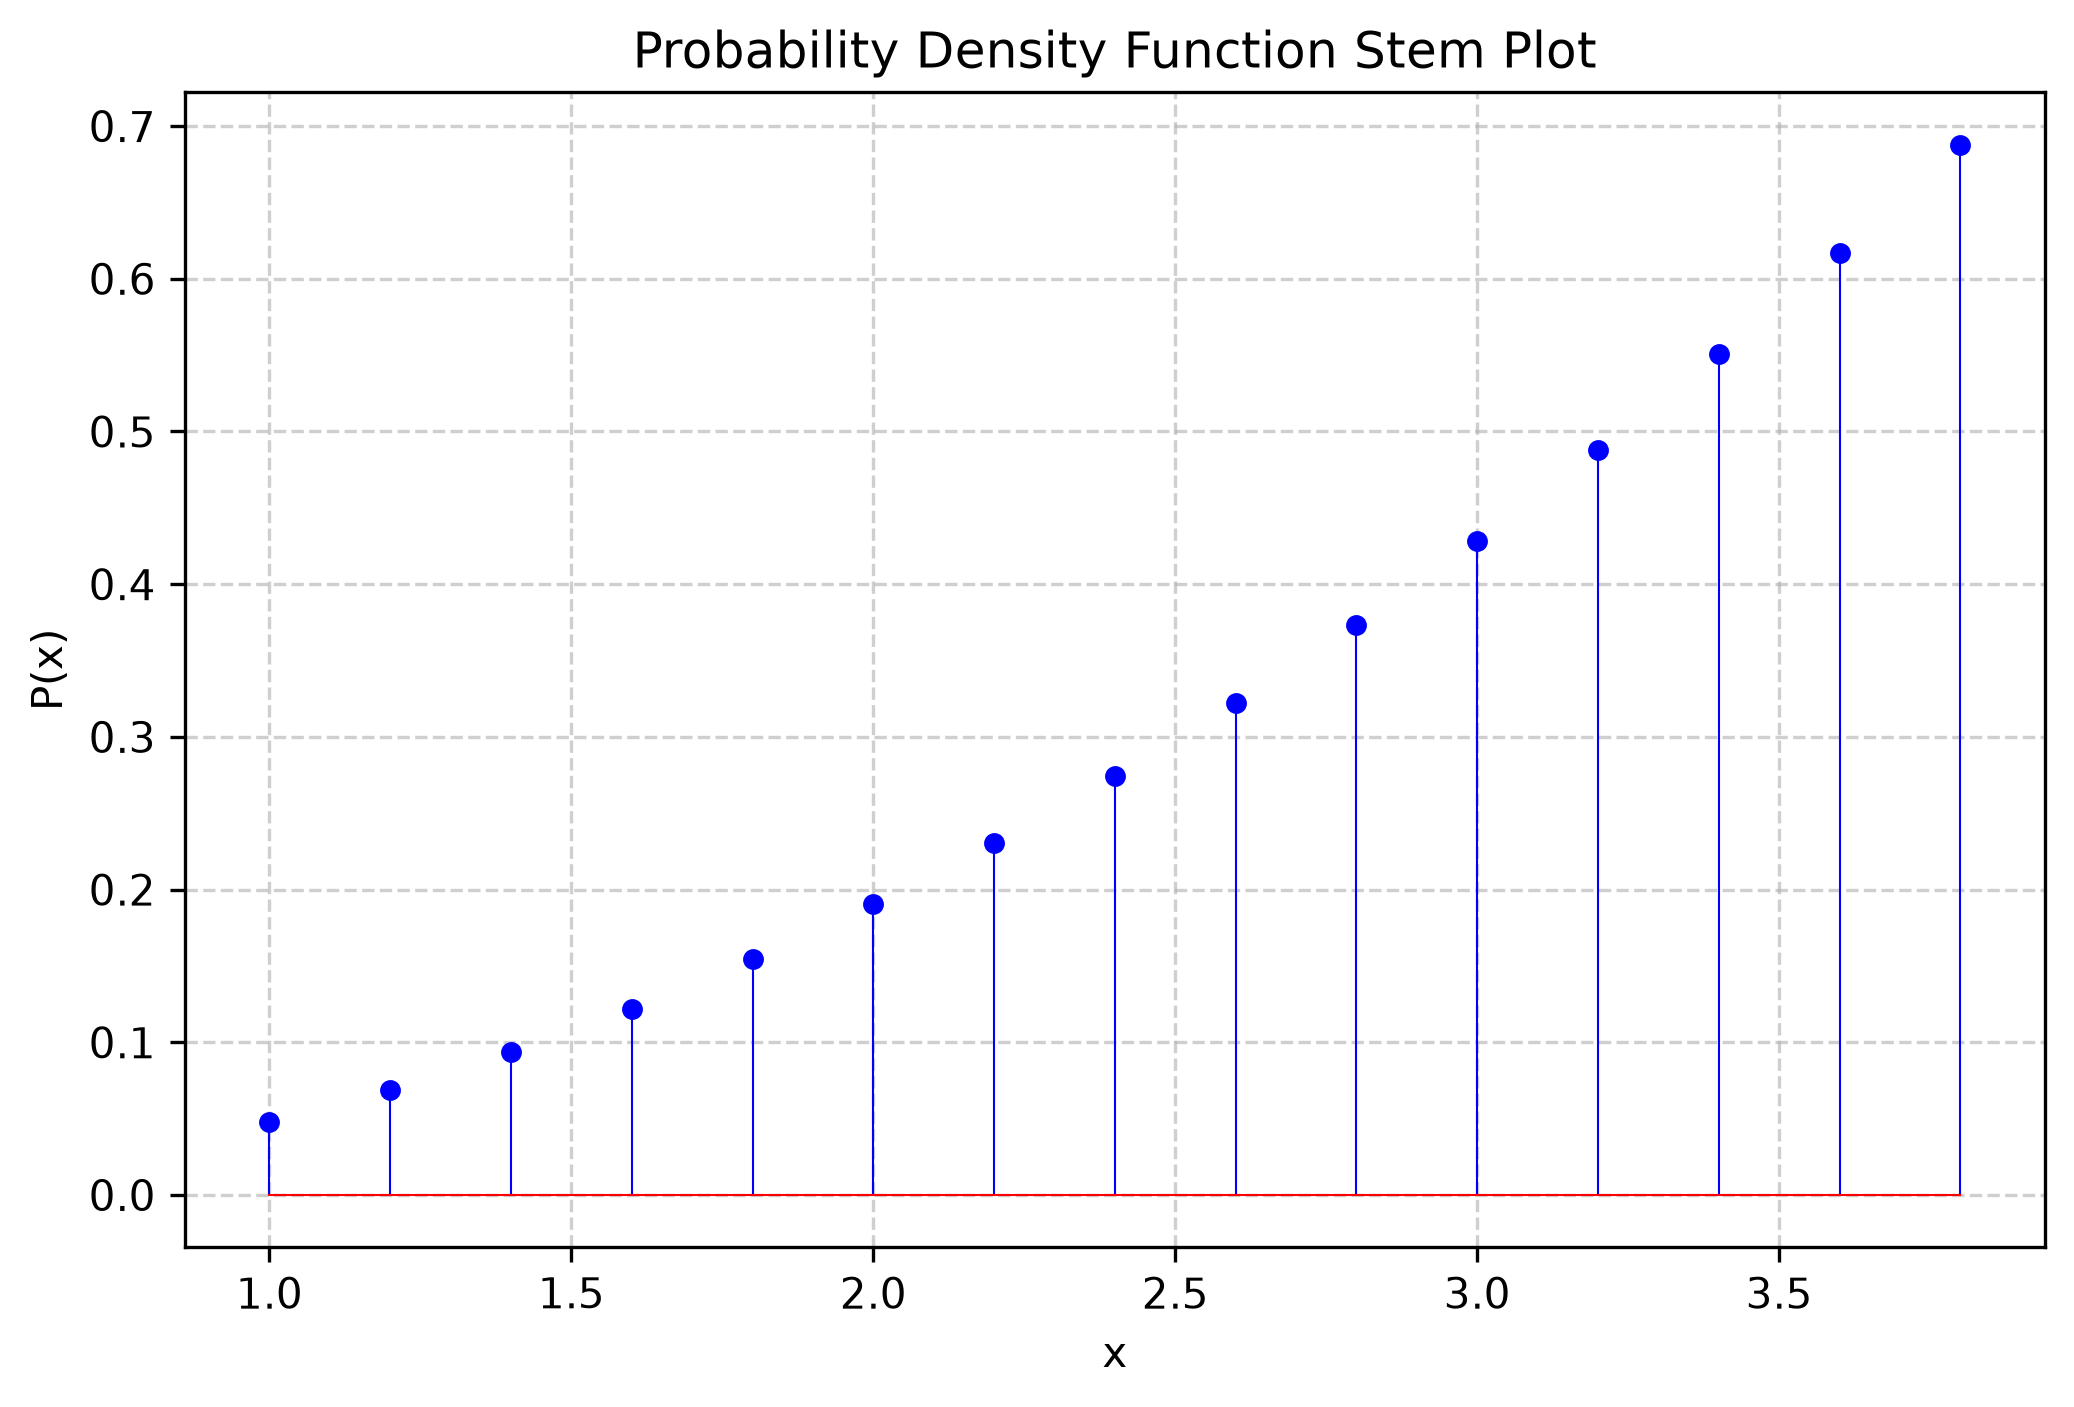
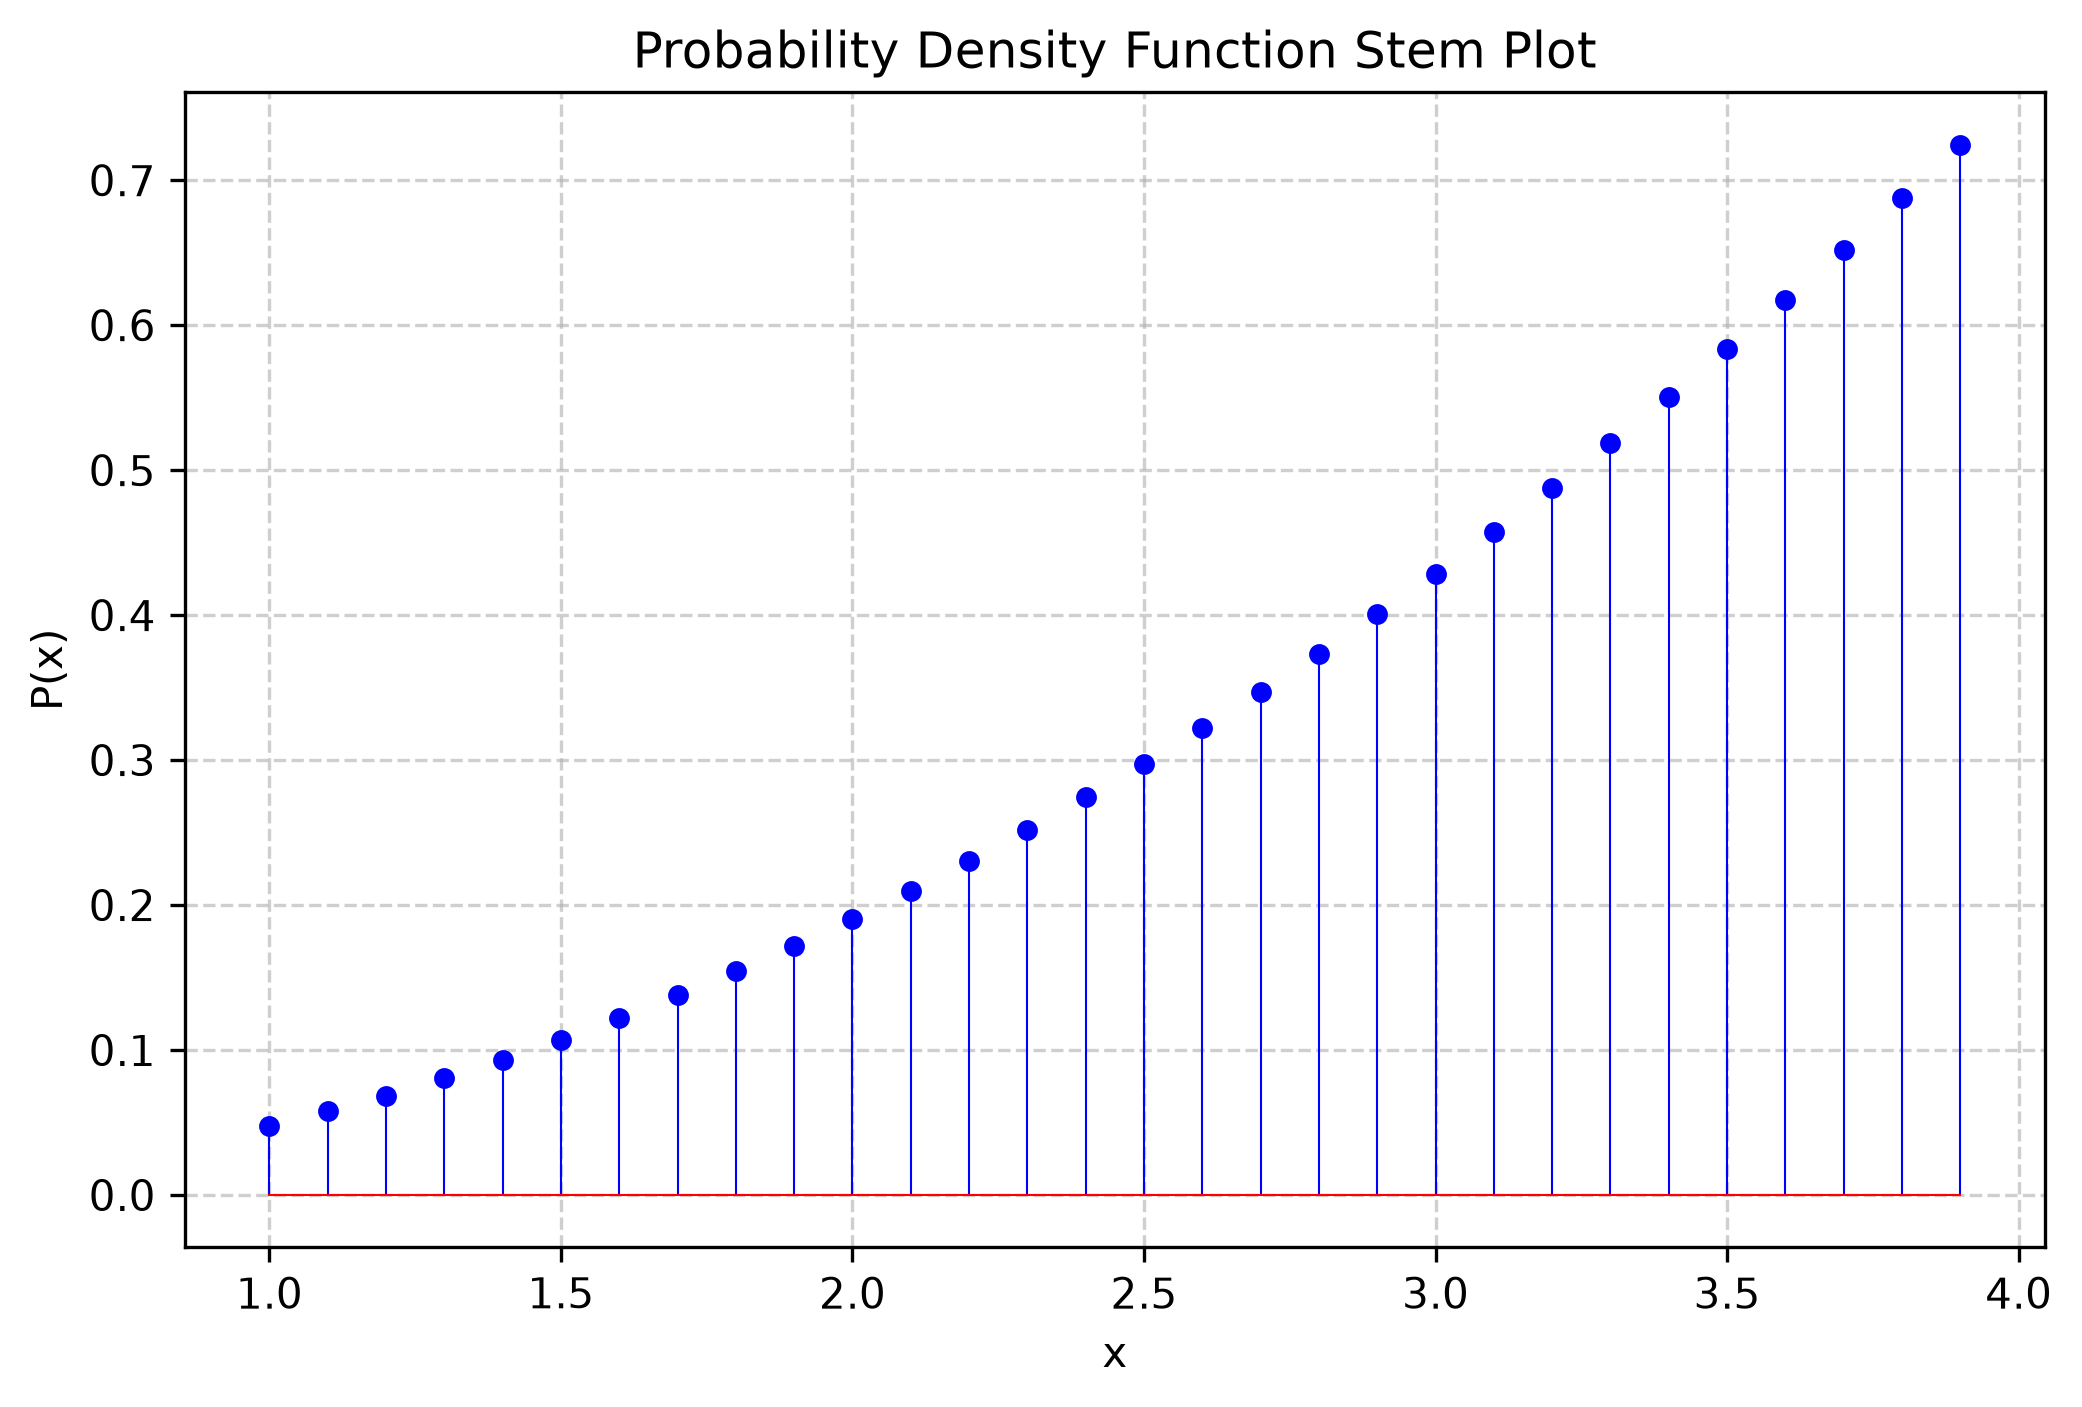
commit

diff --git a/Oct15/csq58.c b/Oct15/csq58.c
@@ -8,7 +8,7 @@ int main() {
     double C = 1.0 / 21.0;
 
     // Write x and P(x) values to file for 1 <= x <= 4
-    for (double x = 1.0; x <= 4.0; x += 0.2) {
+    for (double x = 1.0; x <= 4.0; x += 0.1) {
         fprintf(fp, "%lf %lf\n", x, C * x * x);
     }
 
